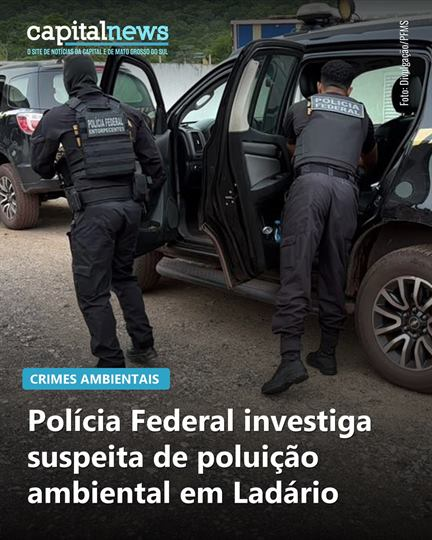
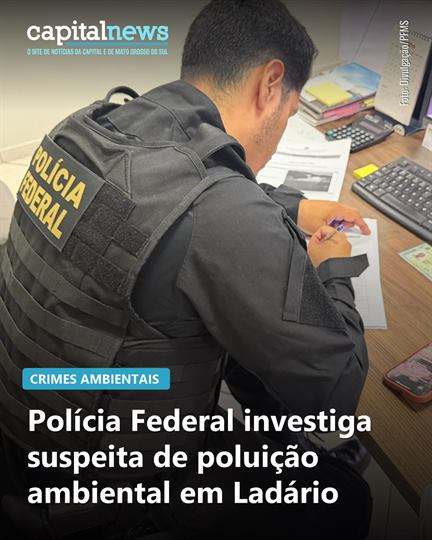
Atualiza a página

diff --git a/index.html b/index.html
@@ -42,7 +42,7 @@ footer{padding:16px;text-align:center;font-size:12px;opacity:.7}
 <main>
 <div class="busca"><input id="q" type="search" placeholder="Buscar notícia" aria-label="Buscar notícia" autocomplete="off"></div>
 <div class="grade">
-<a href="https://www.capitalnews.com.br/policia-e-justica/policia/policia-federal-investiga-suspeita-de-poluicao-ambiental-em-ladario/450234?utm_source=instagram&amp;utm_medium=social&amp;utm_campaign=linkbio" data-t="Pol&#237;cia Federal investiga suspeita de polui&#231;&#227;o ambiental em Lad&#225;rio &#183; CRIMES AMBIENTAIS &#183; Opera&#231;&#227;o Esc&#243;ria cumpre mandados em Mato Grosso do Sul e S&#227;o Paulo para apurar armazenamento irregular de res&#237;duos industriais e poss&#237;veis falhas no licenciamento ambiental &#183; Pol&#237;cia"><img src="img/450234.jpg?v=261119075912" width="432" height="540" alt="Pol&#237;cia Federal investiga suspeita de polui&#231;&#227;o ambiental em Lad&#225;rio"></a>
+<a href="https://www.capitalnews.com.br/policia-e-justica/policia/policia-federal-investiga-suspeita-de-poluicao-ambiental-em-ladario/450234?utm_source=instagram&amp;utm_medium=social&amp;utm_campaign=linkbio" data-t="Pol&#237;cia Federal investiga suspeita de polui&#231;&#227;o ambiental em Lad&#225;rio &#183; CRIMES AMBIENTAIS &#183; Opera&#231;&#227;o Esc&#243;ria cumpre mandados em Mato Grosso do Sul e S&#227;o Paulo para apurar armazenamento irregular de res&#237;duos industriais e poss&#237;veis falhas no licenciamento ambiental &#183; Pol&#237;cia"><img src="img/450234.jpg?v=261119075947" width="432" height="540" alt="Pol&#237;cia Federal investiga suspeita de polui&#231;&#227;o ambiental em Lad&#225;rio"></a>
 <a href="https://www.capitalnews.com.br/cotidiano/saude-e-bem-estar/tres-lagoas-promove-dia-d-contra-dengue-zika-e-chikungunya/450209?utm_source=instagram&amp;utm_medium=social&amp;utm_campaign=linkbio" data-t="Tr&#234;s Lagoas promove Dia D contra dengue, zika e chikungunya &#183; DENGUE E ZIKA &#183; Mobiliza&#231;&#227;o acontece nesta quinta-feira (19), no Centro Poliesportivo da Lagoa Maior, com a&#231;&#245;es de conscientiza&#231;&#227;o e preven&#231;&#227;o ao mosquito Aedes aegypti &#183; Sa&#250;de e Bem Estar"><img src="img/450209.jpg?v=261119075409" width="432" height="540" alt="Tr&#234;s Lagoas promove Dia D contra dengue, zika e chikungunya"></a>
 <a href="https://www.capitalnews.com.br/cotidiano/saude-e-bem-estar/exame-descarta-mpox-em-crianca-de-8-anos-atendida-em-mato-grosso-do-sul/450220?utm_source=instagram&amp;utm_medium=social&amp;utm_campaign=linkbio" data-t="Exame descarta mpox em crian&#231;a de 8 anos atendida em Mato Grosso do Sul &#183; DESCARTADO &#183; Menino foi atendido em S&#227;o Gabriel do Oeste ap&#243;s apresentar les&#245;es na pele; Estado registra dois casos confirmados da doen&#231;a em 2026 &#183; Sa&#250;de e Bem Estar"><img src="img/450220.jpg?v=261119075009" width="432" height="540" alt="Exame descarta mpox em crian&#231;a de 8 anos atendida em Mato Grosso do Sul"></a>
 <a href="https://www.capitalnews.com.br/policia-e-justica/policia/madrasta-e-presa-suspeita-de-torturar-enteadas-em-mato-grosso-do-sul/450208?utm_source=instagram&amp;utm_medium=social&amp;utm_campaign=linkbio" data-t="Madrasta &#233; presa suspeita de torturar enteadas em Mato Grosso do Sul &#183; VIOL&#202;NCIA DOM&#201;STICA &#183; V&#237;timas de 15 e 18 anos relataram anos de agress&#245;es, amea&#231;as e castigos; uma delas teria sido obrigada a ingerir sab&#227;o de soda e colocar pimenta na boca &#183; Pol&#237;cia"><img src="img/450208.jpg?v=261119074422" width="432" height="540" alt="Madrasta &#233; presa suspeita de torturar enteadas em Mato Grosso do Sul"></a>

diff --git a/embutir.html b/embutir.html
@@ -16,7 +16,7 @@ html,body{margin:0;background:#fff;overflow:hidden}
 </head>
 <body>
 <div class="grade">
-<a target="_top" href="https://www.capitalnews.com.br/policia-e-justica/policia/policia-federal-investiga-suspeita-de-poluicao-ambiental-em-ladario/450234?utm_source=instagram&amp;utm_medium=social&amp;utm_campaign=linkbio" data-t="Pol&#237;cia Federal investiga suspeita de polui&#231;&#227;o ambiental em Lad&#225;rio &#183; CRIMES AMBIENTAIS &#183; Opera&#231;&#227;o Esc&#243;ria cumpre mandados em Mato Grosso do Sul e S&#227;o Paulo para apurar armazenamento irregular de res&#237;duos industriais e poss&#237;veis falhas no licenciamento ambiental &#183; Pol&#237;cia"><img src="img/450234.jpg?v=261119075912" width="432" height="540" alt="Pol&#237;cia Federal investiga suspeita de polui&#231;&#227;o ambiental em Lad&#225;rio"></a>
+<a target="_top" href="https://www.capitalnews.com.br/policia-e-justica/policia/policia-federal-investiga-suspeita-de-poluicao-ambiental-em-ladario/450234?utm_source=instagram&amp;utm_medium=social&amp;utm_campaign=linkbio" data-t="Pol&#237;cia Federal investiga suspeita de polui&#231;&#227;o ambiental em Lad&#225;rio &#183; CRIMES AMBIENTAIS &#183; Opera&#231;&#227;o Esc&#243;ria cumpre mandados em Mato Grosso do Sul e S&#227;o Paulo para apurar armazenamento irregular de res&#237;duos industriais e poss&#237;veis falhas no licenciamento ambiental &#183; Pol&#237;cia"><img src="img/450234.jpg?v=261119075947" width="432" height="540" alt="Pol&#237;cia Federal investiga suspeita de polui&#231;&#227;o ambiental em Lad&#225;rio"></a>
 <a target="_top" href="https://www.capitalnews.com.br/cotidiano/saude-e-bem-estar/tres-lagoas-promove-dia-d-contra-dengue-zika-e-chikungunya/450209?utm_source=instagram&amp;utm_medium=social&amp;utm_campaign=linkbio" data-t="Tr&#234;s Lagoas promove Dia D contra dengue, zika e chikungunya &#183; DENGUE E ZIKA &#183; Mobiliza&#231;&#227;o acontece nesta quinta-feira (19), no Centro Poliesportivo da Lagoa Maior, com a&#231;&#245;es de conscientiza&#231;&#227;o e preven&#231;&#227;o ao mosquito Aedes aegypti &#183; Sa&#250;de e Bem Estar"><img src="img/450209.jpg?v=261119075409" width="432" height="540" alt="Tr&#234;s Lagoas promove Dia D contra dengue, zika e chikungunya"></a>
 <a target="_top" href="https://www.capitalnews.com.br/cotidiano/saude-e-bem-estar/exame-descarta-mpox-em-crianca-de-8-anos-atendida-em-mato-grosso-do-sul/450220?utm_source=instagram&amp;utm_medium=social&amp;utm_campaign=linkbio" data-t="Exame descarta mpox em crian&#231;a de 8 anos atendida em Mato Grosso do Sul &#183; DESCARTADO &#183; Menino foi atendido em S&#227;o Gabriel do Oeste ap&#243;s apresentar les&#245;es na pele; Estado registra dois casos confirmados da doen&#231;a em 2026 &#183; Sa&#250;de e Bem Estar"><img src="img/450220.jpg?v=261119075009" width="432" height="540" alt="Exame descarta mpox em crian&#231;a de 8 anos atendida em Mato Grosso do Sul"></a>
 <a target="_top" href="https://www.capitalnews.com.br/policia-e-justica/policia/madrasta-e-presa-suspeita-de-torturar-enteadas-em-mato-grosso-do-sul/450208?utm_source=instagram&amp;utm_medium=social&amp;utm_campaign=linkbio" data-t="Madrasta &#233; presa suspeita de torturar enteadas em Mato Grosso do Sul &#183; VIOL&#202;NCIA DOM&#201;STICA &#183; V&#237;timas de 15 e 18 anos relataram anos de agress&#245;es, amea&#231;as e castigos; uma delas teria sido obrigada a ingerir sab&#227;o de soda e colocar pimenta na boca &#183; Pol&#237;cia"><img src="img/450208.jpg?v=261119074422" width="432" height="540" alt="Madrasta &#233; presa suspeita de torturar enteadas em Mato Grosso do Sul"></a>
